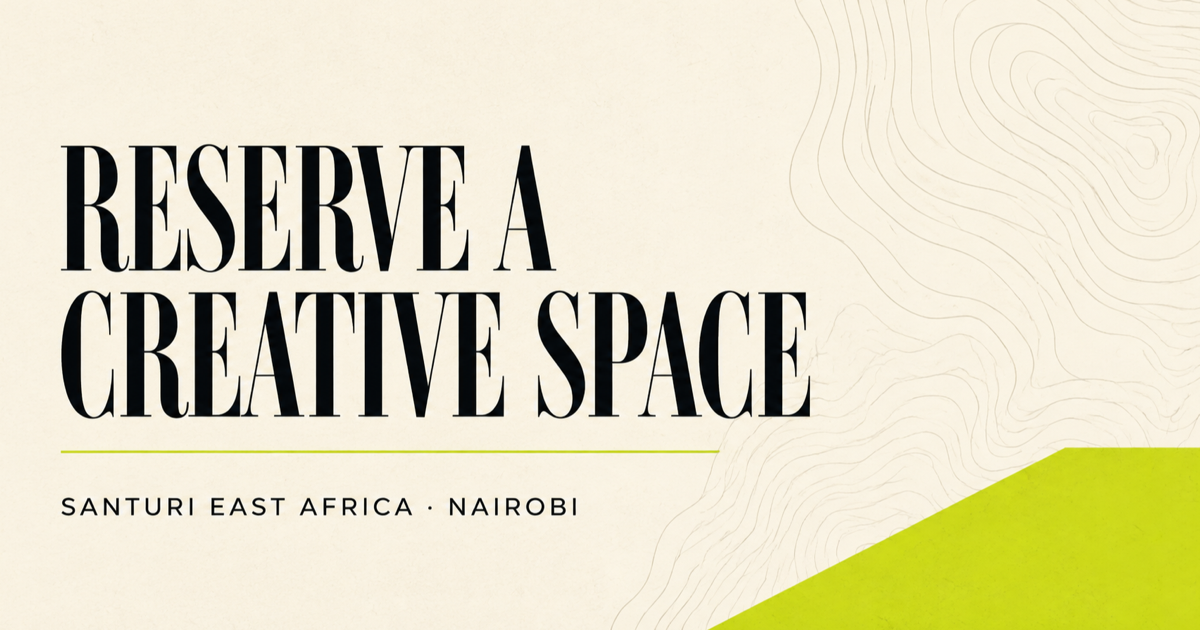
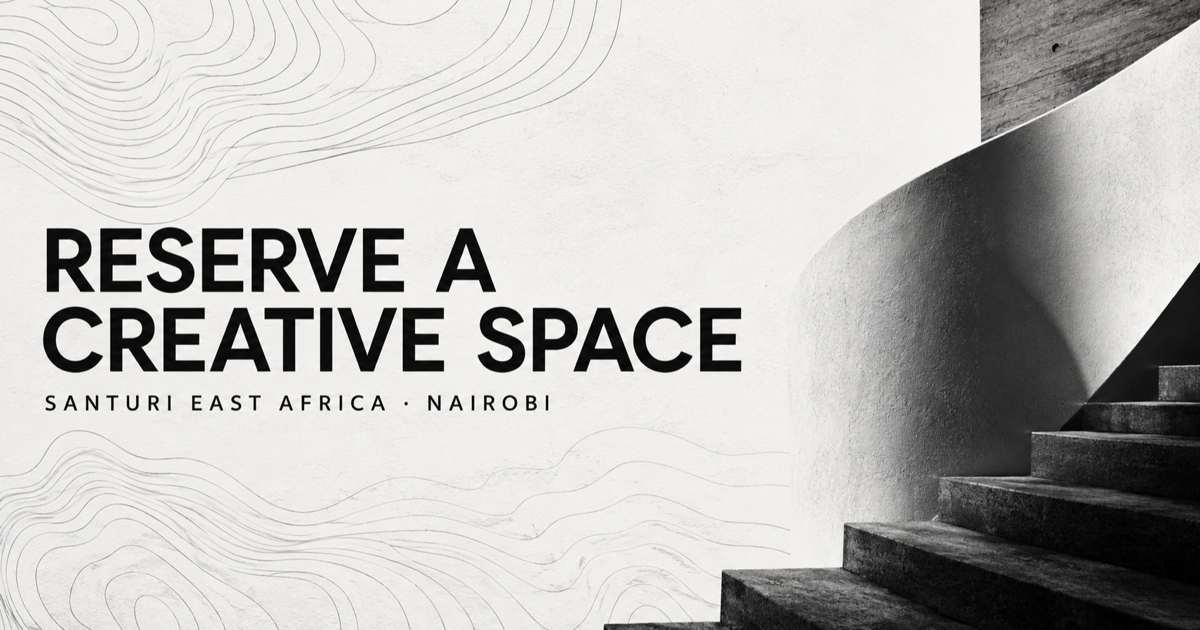
Restore contour animation and monochrome palette

diff --git a/assets/css/main.css b/assets/css/main.css
@@ -1,3 +1,109 @@
-:root{--ink:#11130f;--paper:#f3f0e7;--white:#fff;--acid:#d7ff38;--line:rgba(17,19,15,.18);--muted:#625f58;--mono:"JetBrains Mono",monospace;--sans:"DM Sans",sans-serif}*{box-sizing:border-box}html{scroll-behavior:smooth}body{margin:0;background:var(--paper);color:var(--ink);font-family:var(--sans);font-size:17px;line-height:1.55}a{color:inherit}button{font:inherit}img{max-width:100%;height:auto}.skip-link{position:fixed;left:1rem;top:-5rem;z-index:99;background:var(--acid);padding:.8rem 1rem;font-family:var(--mono)}.skip-link:focus{top:1rem}#topography{position:fixed;inset:0;width:100%;height:100%;z-index:-1;opacity:.09;pointer-events:none}.site-header{height:110px;padding:1rem clamp(1.25rem,4vw,5rem);display:flex;align-items:center;justify-content:space-between;border-bottom:1px solid var(--line)}.site-header img{display:block;object-fit:contain}.site-header nav{display:flex;align-items:center;gap:clamp(1rem,2.5vw,2.5rem);font:600 .75rem var(--mono);text-transform:uppercase;letter-spacing:.05em}.site-header nav a{text-decoration:none}.nav-cta{background:var(--ink);color:var(--white);padding:.85rem 1.1rem}.hero{min-height:calc(100svh - 110px);padding:clamp(4rem,9vw,8rem) clamp(1.25rem,7vw,8rem) 3rem;display:flex;flex-direction:column;justify-content:center}.eyebrow{font:700 .7rem var(--mono);letter-spacing:.13em;text-transform:uppercase;margin:0 0 1rem}.hero h1,.section-heading h2,.how-section h2,.visit-section h2{font:600 clamp(3.4rem,9vw,8.5rem)/.9 var(--sans);letter-spacing:-.065em;margin:0}.hero h1 em{font-weight:400;color:transparent;-webkit-text-stroke:2px var(--ink)}.hero-copy{font-size:clamp(1.1rem,2vw,1.4rem);max-width:42rem;margin:2.5rem 0}.hero-actions{display:flex;align-items:center;gap:2rem}.button{display:inline-flex;align-items:center;justify-content:space-between;gap:3rem;background:var(--acid);color:var(--ink);padding:1rem 1.2rem;text-decoration:none;font:700 .78rem var(--mono);text-transform:uppercase;letter-spacing:.05em;border:0;cursor:pointer;transition:transform .2s}.button:hover{transform:translateY(-3px)}.button:focus-visible,a:focus-visible,button:focus-visible{outline:3px solid #2762ff;outline-offset:4px}.text-link{font:600 .75rem var(--mono);text-transform:uppercase;text-underline-offset:5px}.quick-facts{display:grid;grid-template-columns:repeat(3,1fr);border-top:1px solid var(--line);margin-top:auto;padding-top:1.4rem;font:600 .72rem var(--mono);text-transform:uppercase}.quick-facts span{display:flex;align-items:baseline;gap:.8rem}.quick-facts b{font-size:1.6rem}.spaces-section{background:var(--ink);color:var(--white);padding:clamp(5rem,9vw,9rem) clamp(1.25rem,4vw,5rem)}.section-heading{display:grid;grid-template-columns:2fr 1fr;align-items:end;gap:3rem;margin-bottom:3.5rem}.section-heading h2,.how-section h2,.visit-section h2{font-size:clamp(2.8rem,6vw,6rem)}.section-heading>p{color:#b6b5af;max-width:28rem}.filter{display:flex;gap:.6rem;flex-wrap:wrap;margin-bottom:2rem}.filter-button{border:1px solid #4d4e49;background:transparent;color:var(--white);padding:.7rem 1rem;cursor:pointer;font:600 .7rem var(--mono);text-transform:uppercase}.filter-button.active{background:var(--acid);color:var(--ink);border-color:var(--acid)}.space-grid{display:grid;grid-template-columns:repeat(2,minmax(0,1fr));gap:1px;background:#44453f;border:1px solid #44453f}.space-card{background:var(--ink)}.space-card[hidden]{display:none}.space-image{aspect-ratio:16/10;overflow:hidden}.space-image img{display:block;width:100%;height:100%;object-fit:cover;filter:saturate(.78);transition:transform .5s,filter .5s}.space-card:hover img{transform:scale(1.025);filter:saturate(1)}.space-body{padding:1.6rem}.space-meta{display:flex;justify-content:space-between;color:#aaa;font:600 .68rem var(--mono);text-transform:uppercase}.space-card h3{font-size:clamp(1.8rem,3vw,3rem);letter-spacing:-.04em;margin:.7rem 0}.space-card p{color:#bbb;margin:.5rem 0 1.5rem}.space-actions{display:flex;gap:.75rem}.space-actions button{flex:1}.secondary-button{background:transparent;color:white;border:1px solid #575852;padding:1rem;font:700 .73rem var(--mono);text-transform:uppercase;cursor:pointer}.how-section{display:grid;grid-template-columns:1fr 1fr;gap:5rem;padding:clamp(5rem,9vw,9rem) clamp(1.25rem,7vw,8rem)}.steps{list-style:none;margin:0;padding:0}.steps li{display:grid;grid-template-columns:4rem 1fr;gap:1rem;padding:1.8rem 0;border-top:1px solid var(--line)}.steps b{font:700 .72rem var(--mono)}.steps h3{margin:0 0 .35rem;font-size:1.35rem}.steps p{margin:0;color:var(--muted)}.visit-section{display:grid;grid-template-columns:1.4fr .6fr;background:var(--acid);padding:clamp(4rem,8vw,8rem);gap:5rem}.visit-copy>p:not(.eyebrow){font-size:1.25rem;max-width:45rem}.contact-links{display:flex;flex-wrap:wrap;gap:2rem;margin-top:2rem;font:700 .75rem var(--mono);text-transform:uppercase}.need-help{background:var(--paper);padding:2rem;align-self:end}.need-help h3{font-size:1.7rem;margin:.2rem 0}.button-dark{background:var(--ink);color:white;margin-top:1rem}footer{background:var(--ink);color:white;padding:4rem clamp(1.25rem,4vw,5rem);display:grid;grid-template-columns:1fr 1fr;gap:1.5rem;align-items:end}footer img{filter:brightness(0) invert(1)}footer p{color:#aaa;margin:0}footer div{display:flex;gap:2rem;justify-content:flex-end;font:600 .7rem var(--mono);text-transform:uppercase}footer small{text-align:right;color:#888}.mobile-book{display:none}dialog{width:min(680px,calc(100% - 2rem));max-height:90vh;border:0;padding:0;background:var(--paper);color:var(--ink);box-shadow:0 30px 80px #0008}dialog::backdrop{background:#0c0d0bd9;backdrop-filter:blur(3px)}.dialog-close{position:absolute;right:1rem;top:1rem;width:2.5rem;height:2.5rem;border:0;background:var(--acid);font-size:1.5rem;cursor:pointer}.dialog-inner img{width:100%;aspect-ratio:16/7;object-fit:cover}.dialog-copy{padding:2rem}.dialog-copy h2{font-size:2.7rem;letter-spacing:-.05em;margin:.25rem 0}.dialog-copy ul{padding-left:1.2rem}.dialog-notice{font-size:.86rem;color:var(--muted);border-top:1px solid var(--line);padding-top:1rem}.noscript{position:fixed;bottom:0;z-index:20;width:100%;background:#ffd54f;padding:1rem;text-align:center}.policy{max-width:850px;margin:auto;padding:clamp(4rem,9vw,8rem) 1.5rem}.policy h1{font-size:clamp(3.5rem,9vw,7rem);letter-spacing:-.065em;line-height:.95;margin:.2rem 0 2rem}.policy-lead{font-size:1.35rem;border-bottom:1px solid var(--line);padding-bottom:2rem}.policy h2{margin-top:2.5rem}.policy>.button{margin-top:2rem}
-@media(max-width:760px){body{font-size:16px}.site-header{height:84px}.site-header img{width:125px}.site-header nav>a:not(.nav-cta){display:none}.nav-cta{padding:.65rem .8rem}.hero{min-height:calc(100svh - 84px);padding-top:5rem}.hero h1{font-size:clamp(3.5rem,16vw,5.2rem)}.hero-copy{margin:2rem 0}.quick-facts{grid-template-columns:1fr;gap:.6rem;margin-top:4rem}.quick-facts b{font-size:1rem}.section-heading,.how-section,.visit-section{grid-template-columns:1fr}.section-heading{gap:1rem}.space-grid{grid-template-columns:1fr}.space-actions{flex-direction:column}.how-section,.visit-section{gap:3rem}.filter{overflow-x:auto;flex-wrap:nowrap;padding-bottom:.5rem}.filter-button{white-space:nowrap}.contact-links{flex-direction:column;gap:.8rem}footer{grid-template-columns:1fr;padding-bottom:6rem}footer div{justify-content:flex-start}footer small{text-align:left}.mobile-book{display:flex;position:fixed;z-index:10;left:1rem;right:1rem;bottom:1rem;background:var(--acid);padding:1rem 1.2rem;justify-content:space-between;text-decoration:none;font:700 .78rem var(--mono);text-transform:uppercase;box-shadow:0 8px 25px #0006}}
-@media(prefers-reduced-motion:reduce){html{scroll-behavior:auto}*,*::before,*::after{animation:none!important;transition:none!important}#topography{display:none}}
+:root{--ink:#000;--paper:#fff;--white:#fff;--acid:#fff;--line:rgba(0,0,0,.2);--muted:#555;--mono:"JetBrains Mono",monospace;--sans:"DM Sans",sans-serif}
+*{box-sizing:border-box}
+html{scroll-behavior:smooth}
+body{margin:0;background:var(--paper);color:var(--ink);font-family:var(--sans);font-size:17px;line-height:1.55}
+a{color:inherit}
+button{font:inherit}
+img{max-width:100%;height:auto}
+.skip-link{position:fixed;left:1rem;top:-5rem;z-index:99;background:var(--white);border:2px solid var(--ink);padding:.8rem 1rem;font-family:var(--mono)}
+.skip-link:focus{top:1rem}
+#topography{position:fixed;inset:0;width:100%;height:100%;z-index:-1;opacity:.09;pointer-events:none}
+.site-header{height:110px;padding:1rem clamp(1.25rem,4vw,5rem);display:flex;align-items:center;justify-content:space-between;border-bottom:1px solid var(--line)}
+.site-header img{display:block;object-fit:contain}
+.site-header nav{display:flex;align-items:center;gap:clamp(1rem,2.5vw,2.5rem);font:600 .75rem var(--mono);text-transform:uppercase;letter-spacing:.05em}
+.site-header nav a{text-decoration:none}
+.nav-cta{background:var(--ink);color:var(--white);padding:.85rem 1.1rem}
+.hero{min-height:calc(100svh - 110px);padding:clamp(4rem,9vw,8rem) clamp(1.25rem,7vw,8rem) 3rem;display:flex;flex-direction:column;justify-content:center}
+.eyebrow{font:700 .7rem var(--mono);letter-spacing:.13em;text-transform:uppercase;margin:0 0 1rem}
+.hero h1,.section-heading h2,.how-section h2,.visit-section h2{font:600 clamp(3.4rem,9vw,8.5rem)/.9 var(--sans);letter-spacing:-.065em;margin:0}
+.hero h1 em{font-weight:400;color:transparent;-webkit-text-stroke:2px var(--ink)}
+.hero-copy{font-size:clamp(1.1rem,2vw,1.4rem);max-width:42rem;margin:2.5rem 0}
+.hero-actions{display:flex;align-items:center;gap:2rem}
+.button{display:inline-flex;align-items:center;justify-content:space-between;gap:3rem;background:var(--white);color:var(--ink);padding:1rem 1.2rem;text-decoration:none;font:700 .78rem var(--mono);text-transform:uppercase;letter-spacing:.05em;border:1px solid var(--ink);cursor:pointer;transition:transform .2s}
+.button:hover{transform:translateY(-3px)}
+.button:focus-visible,a:focus-visible,button:focus-visible{outline:3px solid #2762ff;outline-offset:4px}
+.text-link{font:600 .75rem var(--mono);text-transform:uppercase;text-underline-offset:5px}
+.quick-facts{display:grid;grid-template-columns:repeat(3,1fr);border-top:1px solid var(--line);margin-top:auto;padding-top:1.4rem;font:600 .72rem var(--mono);text-transform:uppercase}
+.quick-facts span{display:flex;align-items:baseline;gap:.8rem}
+.quick-facts b{font-size:1.6rem}
+.spaces-section{background:var(--ink);color:var(--white);padding:clamp(5rem,9vw,9rem) clamp(1.25rem,4vw,5rem)}
+.section-heading{display:grid;grid-template-columns:2fr 1fr;align-items:end;gap:3rem;margin-bottom:3.5rem}
+.section-heading h2,.how-section h2,.visit-section h2{font-size:clamp(2.8rem,6vw,6rem)}
+.section-heading>p{color:#b6b5af;max-width:28rem}
+.filter{display:flex;gap:.6rem;flex-wrap:wrap;margin-bottom:2rem}
+.filter-button{border:1px solid #4d4e49;background:transparent;color:var(--white);padding:.7rem 1rem;cursor:pointer;font:600 .7rem var(--mono);text-transform:uppercase}
+.filter-button.active{background:var(--white);color:var(--ink);border-color:var(--white)}
+.space-grid{display:grid;grid-template-columns:repeat(2,minmax(0,1fr));gap:1px;background:#44453f;border:1px solid #44453f}
+.space-card{background:var(--ink)}
+.space-card[hidden]{display:none}
+.space-image{aspect-ratio:16/10;overflow:hidden}
+.space-image img{display:block;width:100%;height:100%;object-fit:cover;filter:saturate(.78);transition:transform .5s,filter .5s}
+.space-card:hover img{transform:scale(1.025);filter:saturate(1)}
+.space-body{padding:1.6rem}
+.space-meta{display:flex;justify-content:space-between;color:#aaa;font:600 .68rem var(--mono);text-transform:uppercase}
+.space-card h3{font-size:clamp(1.8rem,3vw,3rem);letter-spacing:-.04em;margin:.7rem 0}
+.space-card p{color:#bbb;margin:.5rem 0 1.5rem}
+.space-actions{display:flex;gap:.75rem}
+.space-actions button{flex:1}
+.secondary-button{background:transparent;color:white;border:1px solid #575852;padding:1rem;font:700 .73rem var(--mono);text-transform:uppercase;cursor:pointer}
+.how-section{display:grid;grid-template-columns:1fr 1fr;gap:5rem;padding:clamp(5rem,9vw,9rem) clamp(1.25rem,7vw,8rem)}
+.steps{list-style:none;margin:0;padding:0}
+.steps li{display:grid;grid-template-columns:4rem 1fr;gap:1rem;padding:1.8rem 0;border-top:1px solid var(--line)}
+.steps b{font:700 .72rem var(--mono)}
+.steps h3{margin:0 0 .35rem;font-size:1.35rem}
+.steps p{margin:0;color:var(--muted)}
+.visit-section{display:grid;grid-template-columns:1.4fr .6fr;background:var(--white);padding:clamp(4rem,8vw,8rem);gap:5rem;border-top:1px solid var(--ink)}
+.visit-copy>p:not(.eyebrow){font-size:1.25rem;max-width:45rem}
+.contact-links{display:flex;flex-wrap:wrap;gap:2rem;margin-top:2rem;font:700 .75rem var(--mono);text-transform:uppercase}
+.need-help{background:var(--paper);padding:2rem;align-self:end}
+.need-help h3{font-size:1.7rem;margin:.2rem 0}
+.button-dark{background:var(--ink);color:white;margin-top:1rem}
+footer{background:var(--ink);color:white;padding:4rem clamp(1.25rem,4vw,5rem);display:grid;grid-template-columns:1fr 1fr;gap:1.5rem;align-items:end}
+footer img{filter:brightness(0) invert(1)}
+footer p{color:#aaa;margin:0}
+footer div{display:flex;gap:2rem;justify-content:flex-end;font:600 .7rem var(--mono);text-transform:uppercase}
+footer small{text-align:right;color:#888}
+.mobile-book{display:none}
+dialog{width:min(680px,calc(100% - 2rem));max-height:90vh;border:0;padding:0;background:var(--paper);color:var(--ink);box-shadow:0 30px 80px #0008}
+dialog::backdrop{background:#0c0d0bd9;backdrop-filter:blur(3px)}
+.dialog-close{position:absolute;right:1rem;top:1rem;width:2.5rem;height:2.5rem;border:1px solid var(--ink);background:var(--white);font-size:1.5rem;cursor:pointer}
+.dialog-inner img{width:100%;aspect-ratio:16/7;object-fit:cover}
+.dialog-copy{padding:2rem}
+.dialog-copy h2{font-size:2.7rem;letter-spacing:-.05em;margin:.25rem 0}
+.dialog-copy ul{padding-left:1.2rem}
+.dialog-notice{font-size:.86rem;color:var(--muted);border-top:1px solid var(--line);padding-top:1rem}
+.noscript{position:fixed;bottom:0;z-index:20;width:100%;background:#ffd54f;padding:1rem;text-align:center}
+.policy{max-width:850px;margin:auto;padding:clamp(4rem,9vw,8rem) 1.5rem}
+.policy h1{font-size:clamp(3.5rem,9vw,7rem);letter-spacing:-.065em;line-height:.95;margin:.2rem 0 2rem}
+.policy-lead{font-size:1.35rem;border-bottom:1px solid var(--line);padding-bottom:2rem}
+.policy h2{margin-top:2.5rem}
+.policy>.button{margin-top:2rem}
+
+@media(max-width:760px){body{font-size:16px}
+.site-header{height:84px}
+.site-header img{width:125px}
+.site-header nav>a:not(.nav-cta){display:none}
+.nav-cta{padding:.65rem .8rem}
+.hero{min-height:calc(100svh - 84px);padding-top:5rem}
+.hero h1{font-size:clamp(3.5rem,16vw,5.2rem)}
+.hero-copy{margin:2rem 0}
+.quick-facts{grid-template-columns:1fr;gap:.6rem;margin-top:4rem}
+.quick-facts b{font-size:1rem}
+.section-heading,.how-section,.visit-section{grid-template-columns:1fr}
+.section-heading{gap:1rem}
+.space-grid{grid-template-columns:1fr}
+.space-actions{flex-direction:column}
+.how-section,.visit-section{gap:3rem}
+.filter{overflow-x:auto;flex-wrap:nowrap;padding-bottom:.5rem}
+.filter-button{white-space:nowrap}
+.contact-links{flex-direction:column;gap:.8rem}
+footer{grid-template-columns:1fr;padding-bottom:6rem}
+footer div{justify-content:flex-start}
+footer small{text-align:left}
+.mobile-book{display:flex;position:fixed;z-index:10;left:1rem;right:1rem;bottom:1rem;background:var(--white);border:2px solid var(--ink);padding:1rem 1.2rem;justify-content:space-between;text-decoration:none;font:700 .78rem var(--mono);text-transform:uppercase;box-shadow:0 8px 25px #0006}
+}
+
+@media(prefers-reduced-motion:reduce){html{scroll-behavior:auto}
+*,*::before,*::after{animation:none!important;transition:none!important}
+#topography{display:none}
+}

diff --git a/assets/js/main.js b/assets/js/main.js
@@ -10,4 +10,7 @@ function book(s){track("booking_opened",s.id);if(window.Calendly?.initPopupWidge
 function details(s){track("space_details_opened",s.id);dialogContent.innerHTML=`<div class="dialog-inner"><img src="${s.image}" alt=""><div class="dialog-copy"><p class="eyebrow">${s.tag} · 1,000 KES / hour</p><h2 id="dialog-title">${s.title}</h2><p>${s.summary}</p><h3>Good for</h3><ul>${s.features.map(x=>`<li>${x}</li>`).join("")}</ul><p class="dialog-notice">Availability, access instructions, equipment details and payment steps are confirmed during booking. Contact the team if your session has specialist requirements.</p><button class="button dialog-book" data-id="${s.id}">Check availability <span aria-hidden="true">↗</span></button></div></div>`;dialog.showModal()}
 document.addEventListener("click",e=>{const b=e.target.closest(".book-button,.dialog-book"),d=e.target.closest(".details-button");if(b)book(spaces.find(s=>s.id===b.dataset.id));if(d)details(spaces.find(s=>s.id===d.dataset.id));if(e.target===dialog||e.target.closest(".dialog-close"))dialog.close()});
 document.querySelectorAll(".filter-button").forEach(button=>button.addEventListener("click",()=>{document.querySelectorAll(".filter-button").forEach(b=>{b.classList.toggle("active",b===button);b.setAttribute("aria-pressed",b===button)});document.querySelectorAll(".space-card").forEach(card=>card.hidden=button.dataset.filter!=="all"&&!card.dataset.types.includes(button.dataset.filter));track("space_filter",button.dataset.filter)}));document.querySelector("#year").textContent=new Date().getFullYear();
-if(!matchMedia("(prefers-reduced-motion: reduce)").matches){const canvas=document.querySelector("#topography"),ctx=canvas.getContext("2d");let w,h,t=0,raf;const resize=()=>{w=canvas.width=innerWidth;h=canvas.height=innerHeight};function draw(){ctx.clearRect(0,0,w,h);ctx.strokeStyle="#11130f";ctx.lineWidth=.6;for(let row=-2;row<h/48+2;row++){ctx.beginPath();for(let x=0;x<=w;x+=18){const y=row*48+Math.sin(x*.008+t+row)*22+Math.sin(x*.002-row)*14;x?ctx.lineTo(x,y):ctx.moveTo(x,y)}ctx.stroke()}t+=.003;raf=requestAnimationFrame(draw)}resize();addEventListener("resize",resize,{passive:true});document.addEventListener("visibilitychange",()=>{if(document.hidden)cancelAnimationFrame(raf);else draw()});draw()}
+if(!matchMedia("(prefers-reduced-motion: reduce)").matches){
+const canvas=document.querySelector("#topography"),ctx=canvas.getContext("2d");let width,height,time=0,raf;const mouse={x:-1000,y:-1000};addEventListener("mousemove",e=>{mouse.x=e.clientX;mouse.y=e.clientY},{passive:true});function resize(){width=canvas.width=innerWidth;height=canvas.height=innerHeight}addEventListener("resize",resize,{passive:true});resize();
+function field(x,y){let base=(Math.sin(x*.008+time)+Math.cos(y*.009+time*.7)+Math.sin((x+y)*.004))/3;const dx=x-mouse.x,dy=y-mouse.y,distance=Math.sqrt(dx*dx+dy*dy),influence=Math.max(0,1-distance/300);return base+influence*.25}const resolution=25;function interpolate(a,b,level){return(level-a)/(b-a)}
+function drawContours(){ctx.clearRect(0,0,width,height);ctx.strokeStyle="#000";ctx.lineWidth=.7;const cols=Math.ceil(width/resolution),rows=Math.ceil(height/resolution),values=[];for(let x=0;x<=cols;x++){values[x]=[];for(let y=0;y<=rows;y++)values[x][y]=field(x*resolution,y*resolution)}[-.6,-.4,-.2,0,.2,.4,.6].forEach(level=>{ctx.beginPath();for(let x=0;x<cols;x++)for(let y=0;y<rows;y++){const a=values[x][y],b=values[x+1][y],c=values[x+1][y+1],d=values[x][y+1],points=[];if((a<level)!=(b<level))points.push([x*resolution+interpolate(a,b,level)*resolution,y*resolution]);if((b<level)!=(c<level))points.push([(x+1)*resolution,y*resolution+interpolate(b,c,level)*resolution]);if((c<level)!=(d<level))points.push([x*resolution+interpolate(d,c,level)*resolution,(y+1)*resolution]);if((d<level)!=(a<level))points.push([x*resolution,y*resolution+interpolate(a,d,level)*resolution]);if(points.length===2){ctx.moveTo(points[0][0],points[0][1]);ctx.lineTo(points[1][0],points[1][1])}}ctx.stroke()});time+=.005;raf=requestAnimationFrame(drawContours)}document.addEventListener("visibilitychange",()=>{if(document.hidden)cancelAnimationFrame(raf);else drawContours()});drawContours()}

diff --git a/index.html b/index.html
@@ -3,7 +3,7 @@
 <head>
   <meta charset="utf-8"><meta name="viewport" content="width=device-width,initial-scale=1">
   <title>Creative Space Bookings | Santuri East Africa</title>
-  <meta name="description" content="Book Santuri East Africa's recording studio, DJ room, classroom or creative workstation in Nairobi."><link rel="canonical" href="https://bookings.santuri.org/"><meta name="theme-color" content="#d7ff38">
+  <meta name="description" content="Book Santuri East Africa's recording studio, DJ room, classroom or creative workstation in Nairobi."><link rel="canonical" href="https://bookings.santuri.org/"><meta name="theme-color" content="#000000">
   <meta property="og:type" content="website"><meta property="og:title" content="Reserve a Creative Space | Santuri East Africa"><meta property="og:description" content="Four purpose-built spaces for recording, practice, teaching and focused creative work in Nairobi."><meta property="og:url" content="https://bookings.santuri.org/"><meta property="og:image" content="https://bookings.santuri.org/assets/images/og.png">
   <meta name="twitter:card" content="summary_large_image"><meta name="twitter:title" content="Reserve a Creative Space | Santuri East Africa"><meta name="twitter:description" content="Book a recording studio, DJ room, classroom or workstation in Nairobi."><meta name="twitter:image" content="https://bookings.santuri.org/assets/images/og.png">
   <link rel="icon" href="assets/images/favicon.ico"><link rel="preconnect" href="https://fonts.googleapis.com"><link rel="preconnect" href="https://fonts.gstatic.com" crossorigin><link href="https://fonts.googleapis.com/css2?family=DM+Sans:wght@400;500;600&family=JetBrains+Mono:wght@500;600;700&display=swap" rel="stylesheet"><link rel="stylesheet" href="assets/css/main.css">
